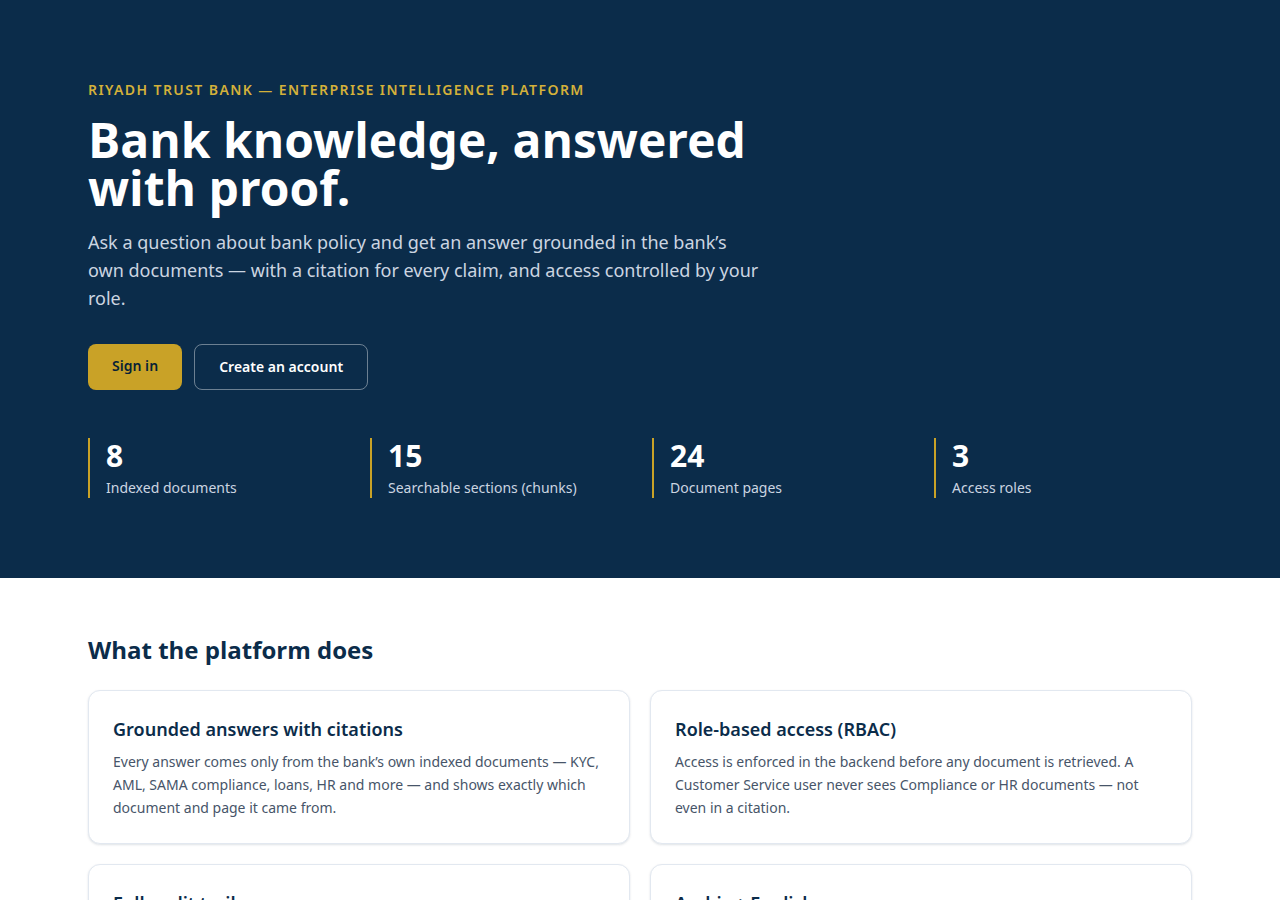
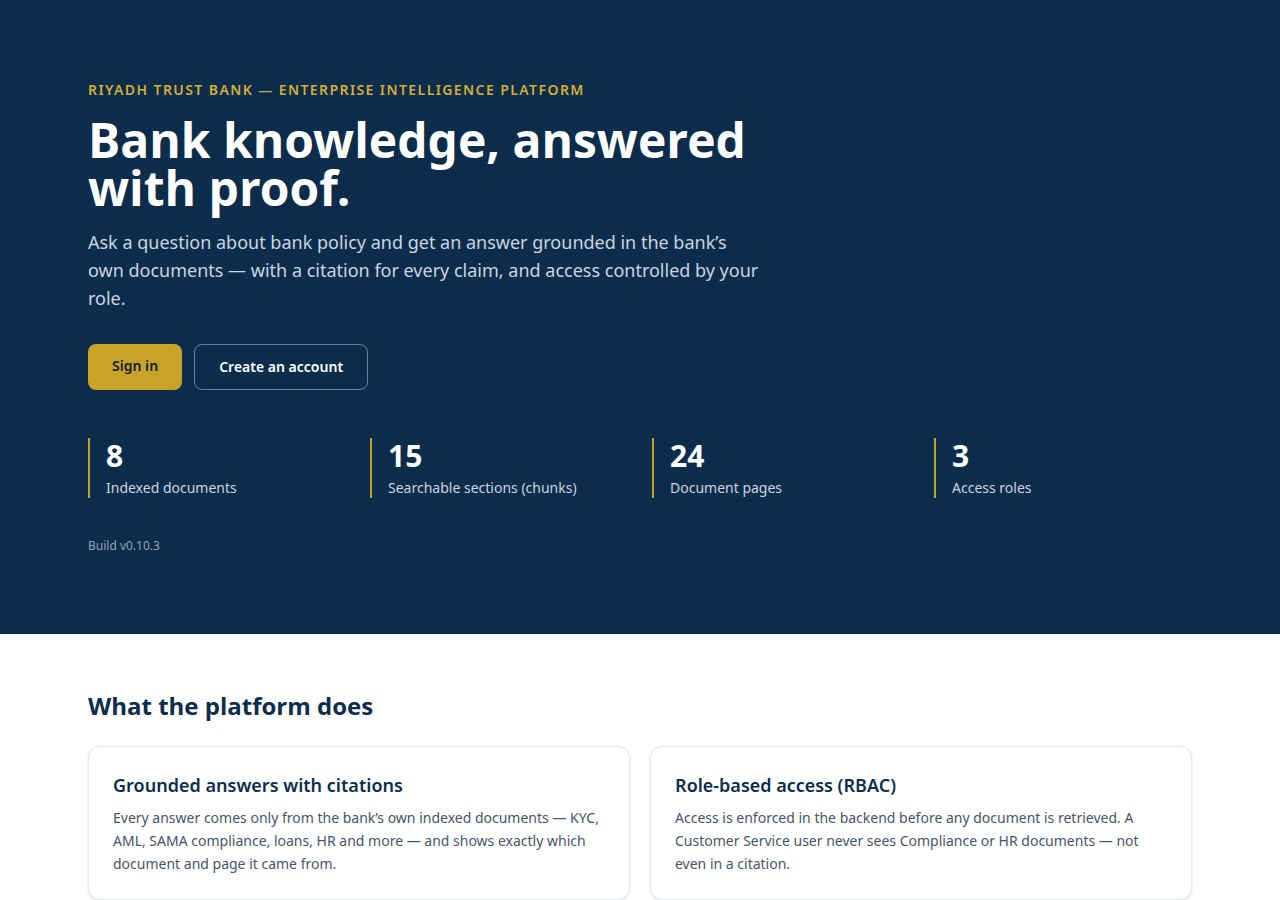
v0.10.3 — retake all README screenshots from v0.10.2 build (no Roman Urdu anywhere, incl. inside images)

diff --git a/frontend/src/pages/Landing.tsx b/frontend/src/pages/Landing.tsx
@@ -108,7 +108,7 @@ export default function Landing() {
               </div>
             ))}
           </dl>
-          <p className="mt-10 text-xs text-slate-400">Build v0.10.2</p>
+          <p className="mt-10 text-xs text-slate-400">Build v0.10.3</p>
         </div>
       </section>
 
@@ -165,10 +165,10 @@ export default function Landing() {
         <div className="mx-auto flex max-w-6xl flex-col gap-2 px-6 py-8 text-sm sm:flex-row sm:items-center sm:justify-between">
           <p className="footer-title font-semibold text-white">Riyadh Trust Bank — Enterprise Intelligence Platform</p>
           <p>
-            Demo deployment — synthetic documents only, no real customer data. Tokens are stored in
-            the browser (demo setup).
+            Demo deployment — synthetic documents only, no real customer data. Auth uses httpOnly
+            cookies (demo setup).
           </p>
-          <p className="text-xs text-slate-400">v0.10.2</p>
+          <p className="text-xs text-slate-400">v0.10.3</p>
         </div>
       </footer>
     </div>

diff --git a/scripts/retake_readme_screenshots.py b/scripts/retake_readme_screenshots.py
@@ -1,0 +1,140 @@
+"""Retake ALL README screenshots (v0.10.3) — real headless Chromium (Playwright).
+
+Why: the old v0.7 login screenshot (02-signin.png) still showed Roman Urdu
+demo labels ("(sab kuch)", "(sirf Retail)") even though the code was
+already English. Text scans cannot see inside images, so all 6 README
+screenshots are retaken from the current build and verified visually + OCR.
+
+Flow (staging, http://localhost:3001):
+  01-landing.png        landing page (viewport 1280x900)
+  02-signin.png         /login with English demo labels (viewport 1280x900)
+  03-signup.png         /register (viewport 1280x900)
+  04-chat.png           demo Admin login -> real question -> cited answer
+                         (viewport 1280x900)
+  05-monitoring.png     /monitoring Admin dashboard (full page, 1440 wide)
+  06-landing-fixed.png  landing page again (full page, 1280 wide)
+
+Usage: python scripts/retake_readme_screenshots.py
+Requires staging API :8001 + web preview :3001 running.
+Exit 0 only if all 6 shots are saved.
+"""
+
+import sys
+from pathlib import Path
+
+from playwright.sync_api import sync_playwright
+
+ROOT = Path(__file__).resolve().parents[1]
+CHROME_HEADLESS_SHELL = "/tmp/chrome-headless-shell-linux64/chrome-headless-shell"
+SHOTS = ROOT / "docs" / "screenshots"
+ORIGIN = "http://localhost:3001"
+QUESTION = "What documents are needed for KYC account opening?"
+
+results: list[tuple[str, bool, str]] = []
+
+
+def check(name: str, ok: bool, detail: str = "") -> None:
+    results.append((name, ok, detail))
+    print(f"  [{'PASS' if ok else 'FAIL'}] {name} {detail}")
+
+
+def main() -> int:
+    with sync_playwright() as pw:
+        browser = pw.chromium.launch(headless=True, executable_path=CHROME_HEADLESS_SHELL)
+
+        # --- 01 landing (viewport) ---
+        ctx = browser.new_context(viewport={"width": 1280, "height": 900})
+        page = ctx.new_page()
+        r = page.goto(f"{ORIGIN}/", wait_until="networkidle")
+        check("01 landing loads", r is not None and r.status == 200, f"(HTTP {r.status if r else '?'})")
+        check("01 hero text visible", "Bank knowledge, answered with proof." in page.content())
+        page.screenshot(path=str(SHOTS / "01-landing.png"))
+        print("  screenshot -> 01-landing.png")
+        ctx.close()
+
+        # --- 02 sign in (viewport) ---
+        ctx = browser.new_context(viewport={"width": 1280, "height": 900})
+        page = ctx.new_page()
+        r = page.goto(f"{ORIGIN}/login", wait_until="networkidle")
+        check("02 sign-in loads", r is not None and r.status == 200, f"(HTTP {r.status if r else '?'})")
+        body = page.content()
+        check("02 demo labels English", "Branch Manager (full access)" in body
+              and "Customer Service (Retail only)" in body)
+        check("02 no Roman Urdu labels", "(sab kuch)" not in body and "(sirf Retail)" not in body)
+        page.screenshot(path=str(SHOTS / "02-signin.png"))
+        print("  screenshot -> 02-signin.png")
+
+        # --- 03 sign up (viewport, same context) ---
+        r = page.goto(f"{ORIGIN}/register", wait_until="networkidle")
+        check("03 sign-up loads", r is not None and r.status == 200, f"(HTTP {r.status if r else '?'})")
+        check("03 create-account heading", "Create account" in page.content()
+              or "Sign up" in page.content())
+        page.screenshot(path=str(SHOTS / "03-signup.png"))
+        print("  screenshot -> 03-signup.png")
+
+        # --- 04 chat: demo Admin login, real question, cited answer ---
+        page.goto(f"{ORIGIN}/login", wait_until="networkidle")
+        page.get_by_text("Branch Manager (full access)").click()
+        try:
+            page.wait_for_url("**/chat", timeout=15000)
+            check("04 demo Admin login -> /chat", True, f"(URL {page.url})")
+        except Exception:
+            check("04 demo Admin login -> /chat", False, f"(URL {page.url})")
+            browser.close()
+            return 1
+        page.get_by_placeholder("Ask about KYC, AML, loans, leave, fees… (English or العربية)").fill(QUESTION)
+        page.get_by_text("Ask", exact=True).click()
+        try:
+            page.get_by_text("Sources", exact=True).first.wait_for(timeout=120000)
+            check("04 cited answer rendered", True, "(Sources block visible)")
+        except Exception:
+            check("04 cited answer rendered", False, "(no Sources block in 120s)")
+            browser.close()
+            return 1
+        page.wait_for_timeout(800)
+        # Scroll the message list so the user's question is visible at
+        # the top of the shot (the list auto-scrolls to the bottom,
+        # which hides the question; a plain scrollTop=0 on the
+        # container did not stick, so scroll the question itself
+        # into view).
+        page.get_by_text(QUESTION, exact=True).first.scroll_into_view_if_needed()
+        page.wait_for_timeout(500)
+        page.screenshot(path=str(SHOTS / "04-chat.png"))
+        print("  screenshot -> 04-chat.png")
+
+        # --- 05 monitoring (full page, 1440 wide, SAME logged-in page) ---
+        # NOTE: copying cookies into a fresh context did not carry the
+        # Admin session (the page bounced to /login), so stay on the
+        # already-logged-in page from step 04 instead.
+        page.set_viewport_size({"width": 1440, "height": 900})
+        r = page.goto(f"{ORIGIN}/monitoring", wait_until="networkidle")
+        check("05 monitoring loads", r is not None and r.status == 200, f"(HTTP {r.status if r else '?'})")
+        try:
+            page.get_by_role("heading", name="Monitoring").wait_for(timeout=15000)
+            check("05 monitoring heading", True, "(h1 Monitoring visible)")
+        except Exception:
+            check("05 monitoring heading", False, f"(URL {page.url})")
+            browser.close()
+            return 1
+        page.wait_for_timeout(1000)
+        page.screenshot(path=str(SHOTS / "05-monitoring.png"), full_page=True)
+        print("  screenshot -> 05-monitoring.png")
+
+        # --- 06 landing again (full page, 1280 wide) ---
+        ctx3 = browser.new_context(viewport={"width": 1280, "height": 900})
+        page3 = ctx3.new_page()
+        r = page3.goto(f"{ORIGIN}/", wait_until="networkidle")
+        check("06 landing loads", r is not None and r.status == 200, f"(HTTP {r.status if r else '?'})")
+        page3.screenshot(path=str(SHOTS / "06-landing-fixed.png"), full_page=True)
+        print("  screenshot -> 06-landing-fixed.png")
+        ctx3.close()
+
+        browser.close()
+
+    failed = [n for n, ok, _ in results if not ok]
+    print(f"\n{len(results) - len(failed)}/{len(results)} checks passed")
+    return 1 if failed else 0
+
+
+if __name__ == "__main__":
+    sys.exit(main())

diff --git a/scripts/staging_smoke.py b/scripts/staging_smoke.py
@@ -119,7 +119,7 @@ class Smoke:
                    res.status_code == 200 and data.get("environment") == "staging",
                    f"HTTP {res.status_code}, environment={data.get('environment')}, "
                    f"version={data.get('version')}")
-        self.check("health version 0.10.2", data.get("version") == "0.10.2",
+        self.check("health version 0.10.3", data.get("version") == "0.10.3",
                    f"version={data.get('version')}")
         res = self.client.get("/api/v1/metrics")
         mdata = res.json().get("data", {}) if res.status_code == 200 else {}

diff --git a/scripts/production_smoke.py b/scripts/production_smoke.py
@@ -68,7 +68,7 @@ def main() -> int:
         body = res.json().get("data", {}) if res.status_code == 200 else {}
         check("health environment=production", body.get("environment") == "production",
               f"got {body.get('environment')!r}")
-        check("health version 0.10.2", body.get("version") == "0.10.2",
+        check("health version 0.10.3", body.get("version") == "0.10.3",
               f"got {body.get('version')!r}")
         check("health demo_accounts_enabled=false",
               body.get("demo_accounts_enabled") is False,

diff --git a/backend/app/core/config.py b/backend/app/core/config.py
@@ -38,7 +38,7 @@ class Settings(BaseSettings):
     model_config = SettingsConfigDict(env_file=".env", env_file_encoding="utf-8", extra="ignore")
 
     app_name: str = "Riyadh Trust Bank — Enterprise Intelligence Platform"
-    version: str = "0.10.2"
+    version: str = "0.10.3"
     embedding_model: str = os.getenv("EMBEDDING_MODEL", "BAAI/bge-m3")
     vector_store_dir: str = os.getenv("VECTOR_STORE_DIR", "data/vector_store")
     environment: str = os.getenv("ENVIRONMENT", "development")

diff --git a/tests/test_health.py b/tests/test_health.py
@@ -21,7 +21,7 @@ def test_health_returns_200_and_ok():
     body = res.json()
     assert body["success"] is True
     assert body["data"]["status"] == "ok"
-    assert body["data"]["version"] == "0.10.2"
+    assert body["data"]["version"] == "0.10.3"
 
 
 def test_metrics_lists_pending_endpoints():

diff --git a/README.md b/README.md
@@ -16,7 +16,7 @@ Employees at a bank waste hours hunting for the right policy, contract, or compl
 
 - **Fictional bank, synthetic data only.** "Riyadh Trust Bank" is not a real bank. All 8 documents (24 pages) are fictional, created for this demo. **No real customer data, ever.**
 - **Local-first, $0.** Runs on a laptop without Docker or any cloud service: Python venv + Node + local PostgreSQL. No paid APIs, no paid LLM — answers run in extractive-fallback mode until Ollama is installed.
-- **Full process, one project at a time:** Requirements → Estimate → Design → Setup → Development (4 sprints) → Testing → Staging → Production → Monitoring. This repo is the finished Project 1 (v0.10.2).
+- **Full process, one project at a time:** Requirements → Estimate → Design → Setup → Development (4 sprints) → Testing → Staging → Production → Monitoring. This repo is the finished Project 1 (v0.10.3).
 
 ## Features
 
@@ -132,7 +132,7 @@ infra/      docker-compose.optional.yml (OPTIONAL only — Docker is not require
 
 ---
 
-## Build history (v0.1 → v0.10.2)
+## Build history (v0.1 → v0.10.3)
 
 > The section below is a chronological build log, written as each version was completed. Some older lines describe the state at the time, when a feature had not been built yet; the current state is described in "What it is" above. No facts have been removed.
 
@@ -142,6 +142,8 @@ infra/      docker-compose.optional.yml (OPTIONAL only — Docker is not require
 > Docker is optional only (`infra/docker-compose.optional.yml`) — for machines where Docker does run.
 
 Enterprise Intelligence Platform for a fictional Saudi bank (Riyadh Trust Bank) — a portfolio project, not a real company, with no real customer data.
+
+Status: **v0.10.3 DONE — All README screenshots retaken.** The old v0.7 login screenshot still showed Roman Urdu demo labels ("(sab kuch)", "(sirf Retail)") even though the code was already English — text scans cannot see inside images. All 6 README screenshots (landing, sign in, sign up, chat, monitoring, landing) were retaken from the v0.10.3 build in a real headless browser and visually + OCR-verified: no Roman Urdu anywhere, including inside the images.
 
 Status: **v0.10.2 DONE — Login bounce fixed.** Browser login no longer bounces back to the sign-in page: the frontend now calls the API on the same host the page was opened on (localhost or 127.0.0.1), so the SameSite=Lax httpOnly cookies are sent on every request, and CORS allows both local host spellings. Verified in a real headless browser from both hosts (login → chat → reload still logged in → logout). Details in `docs/LOGIN-FIX.md`.
 
